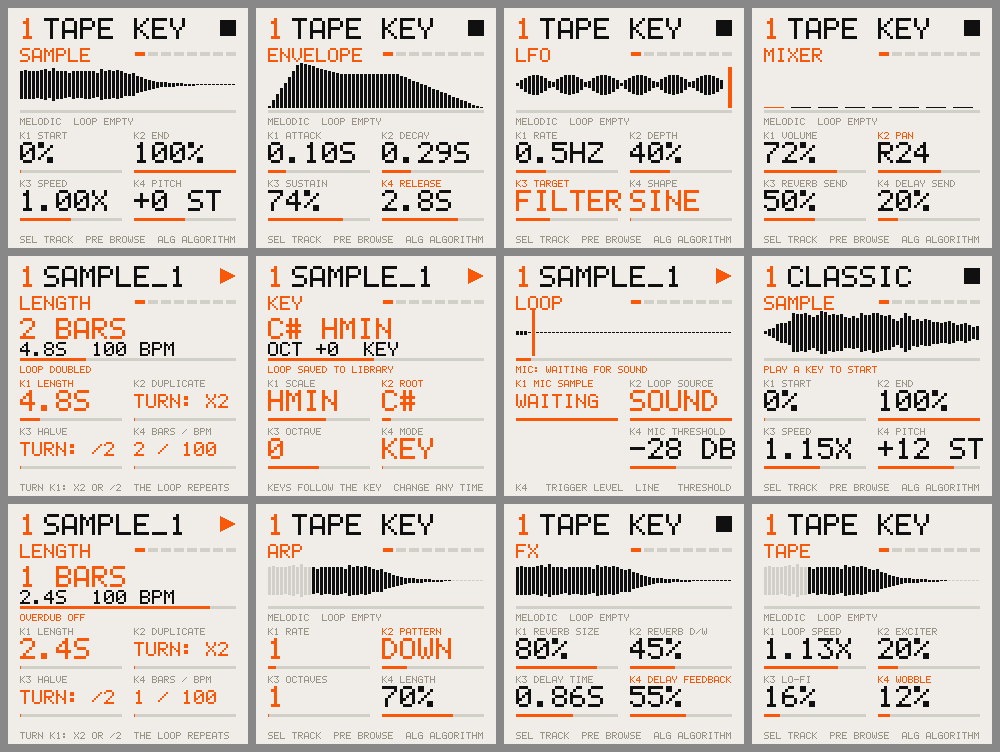
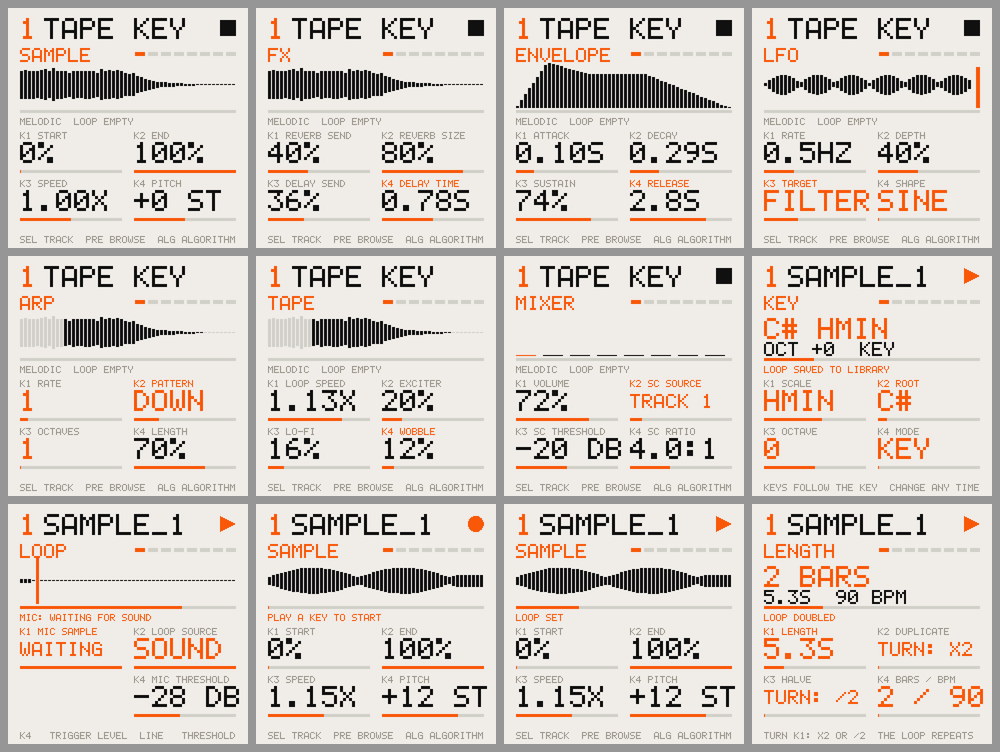
README: FM-1 screen shots regenerated from the current build
Claude-Session: https://claude.ai/code/session_016UqCt8NtNJuicCNMPz755n

diff --git a/README.md b/README.md
@@ -5,7 +5,7 @@ control surface (keys, buttons, 7 encoders), the second screen (240x240, drawn w
 All DSP is original code in `engine/dsp` (no third-party audio engine); the only library is KissFFT (BSD) for the Paulstretch mode.
 
 ## Screenshots
-FM-1 second screen (240x240, from the host simulator `app_sim`: sample, edit, envelope, LFO, arp, tape, mixer, loop length, key, mic waiting, rec armed, loop playing):
+FM-1 second screen (240x240, from the host simulator `app_sim`: sample, FX, envelope, LFO, arp, tape, mixer, key, mic waiting, rec armed, loop playing, loop length):
 
 ![FM-1 screens](shots/readme_fm1.png)
 
